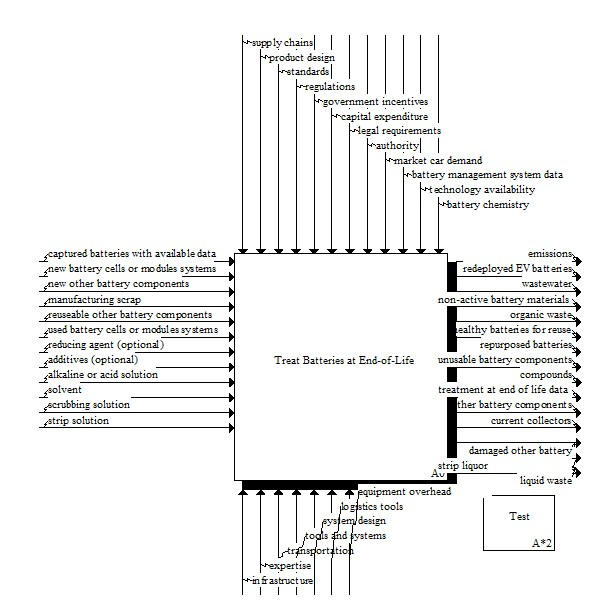
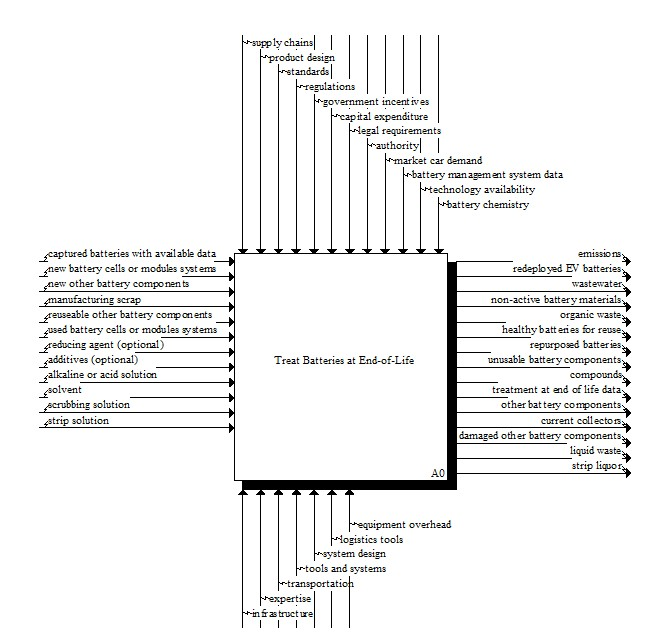
html update

Changed region(s): [[0.06, 0.0625, 0.99, 0.9688], [0.84, 0.8438, 0.93, 0.9062], [0.87, 0.7812, 0.96, 0.8125]]

diff --git a/pce/pce/dgmTreat_EV_Batteries_at_End-of-Life23.html b/pce/pce/dgmTreat_EV_Batteries_at_End-of-Life23.html
@@ -12,12 +12,6 @@ p{margin-top:0; margin-bottom:0;}
 	href = "dgmA0COLON%5FTreat%5FBatteries%5Fat%5FEnd%2Dof%2DLife68.html"  alt="Click Shadow for Decomp Diagram ">
    <area shape="rect" coords="240, 481, 454, 492"
 	href = "dgmA0COLON%5FTreat%5FBatteries%5Fat%5FEnd%2Dof%2DLife68.html"  alt="Click Shadow for Decomp Diagram ">
-   <area shape="rect" coords="483, 495, 554, 551"
-	href = "actuseTest3465.html"  alt="Click Activity Box for Description">
-   <area shape="rect" coords="554, 502, 565, 558"
-	href = "dgmTreat%5FEV%5FBatteries%5Fat%5FEnd%2Dof%2DLife23.html"  alt="Click Shadow for Decomp Diagram ">
-   <area shape="rect" coords="490, 551, 561, 562"
-	href = "dgmTreat%5FEV%5FBatteries%5Fat%5FEnd%2Dof%2DLife23.html"  alt="Click Shadow for Decomp Diagram ">
 </map>
 <br>
 <p class="textfield" id="creator"><B>Creator</B>Triebe, Weaver</p>
@@ -27,7 +21,6 @@ p{margin-top:0; margin-bottom:0;}
 <p class="textfield" id="description"><B>Description </B></p><br>
 <H2>Activities</H2>
 <p class="poolitem"><A HREF=actuseTreat%5FBatteries%5Fat%5FEnd%2Dof%2DLife25.html>Treat Batteries at End-of-Life</A></p>
-<p class="poolitem"><A HREF=actuseTest3465.html>Test</A></p>
 <H2>Concepts</H2>
 <p class="poolitem"><A HREF=concusecaptured%5Fbatteries%5Fwith%5Favailable%5Fdata29.html>captured batteries with available data</A></p>
 <p class="poolitem"><A HREF=concusenew%5Fbattery%5Fcells%5For%5Fmodules%5Fsystems32.html>new battery cells or modules systems</A></p>

diff --git a/pce/pce/TOC_Hier.html b/pce/pce/TOC_Hier.html
@@ -91,6 +91,5 @@ top.Down.location = "Blank.htm";
 <NOBR>&nbsp;&nbsp;&nbsp;&nbsp;&nbsp;&nbsp;&nbsp;&nbsp;&nbsp;&nbsp;&nbsp;&nbsp;&nbsp;&nbsp;&nbsp;&nbsp;&nbsp;&nbsp;<A HREF=actuseScrubbing1232.html>Scrubbing</A></NOBR><br>
 <NOBR>&nbsp;&nbsp;&nbsp;&nbsp;&nbsp;&nbsp;&nbsp;&nbsp;&nbsp;&nbsp;&nbsp;&nbsp;&nbsp;&nbsp;&nbsp;&nbsp;&nbsp;&nbsp;<A HREF=actuseStripping1236.html>Stripping</A></NOBR><br>
 <NOBR>&nbsp;&nbsp;&nbsp;&nbsp;&nbsp;&nbsp;&nbsp;&nbsp;&nbsp;&nbsp;&nbsp;&nbsp;&nbsp;&nbsp;&nbsp;&nbsp;&nbsp;&nbsp;<A HREF=actusePrecipitationSLASHelectrowinning1240.html>Precipitation/electrowinning</A></NOBR><br>
-<NOBR>&nbsp;&nbsp;<A HREF=actuseTest3465.html>Test</A></NOBR><br>
 </BODY>
 </HTML>
